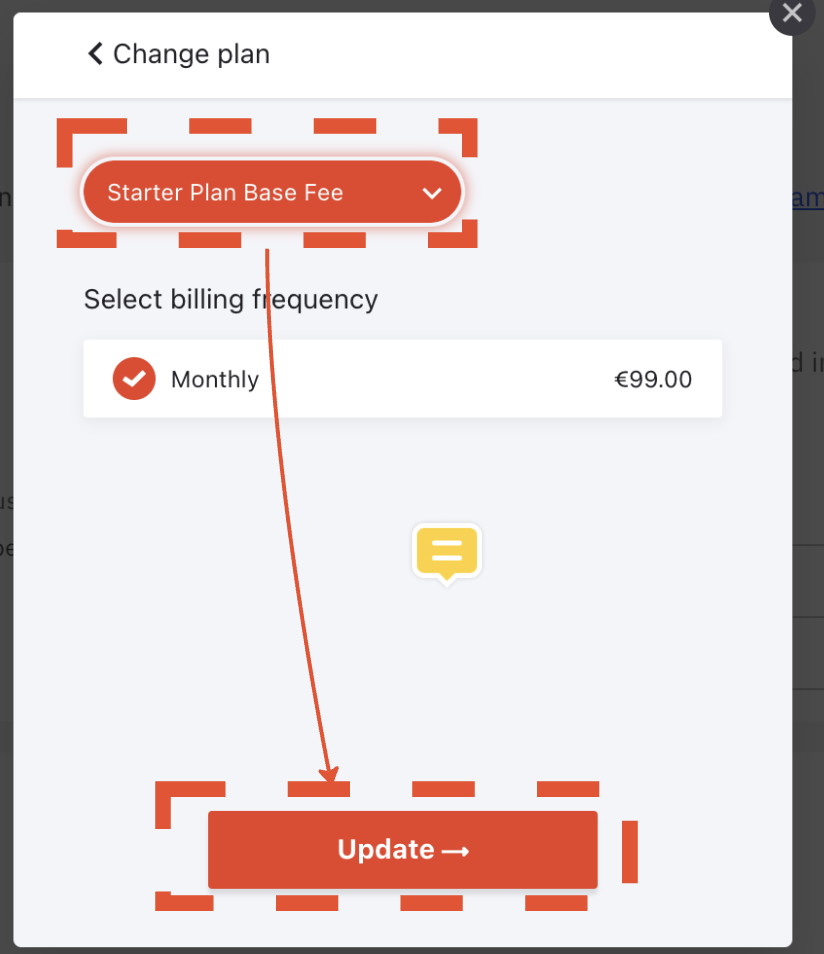
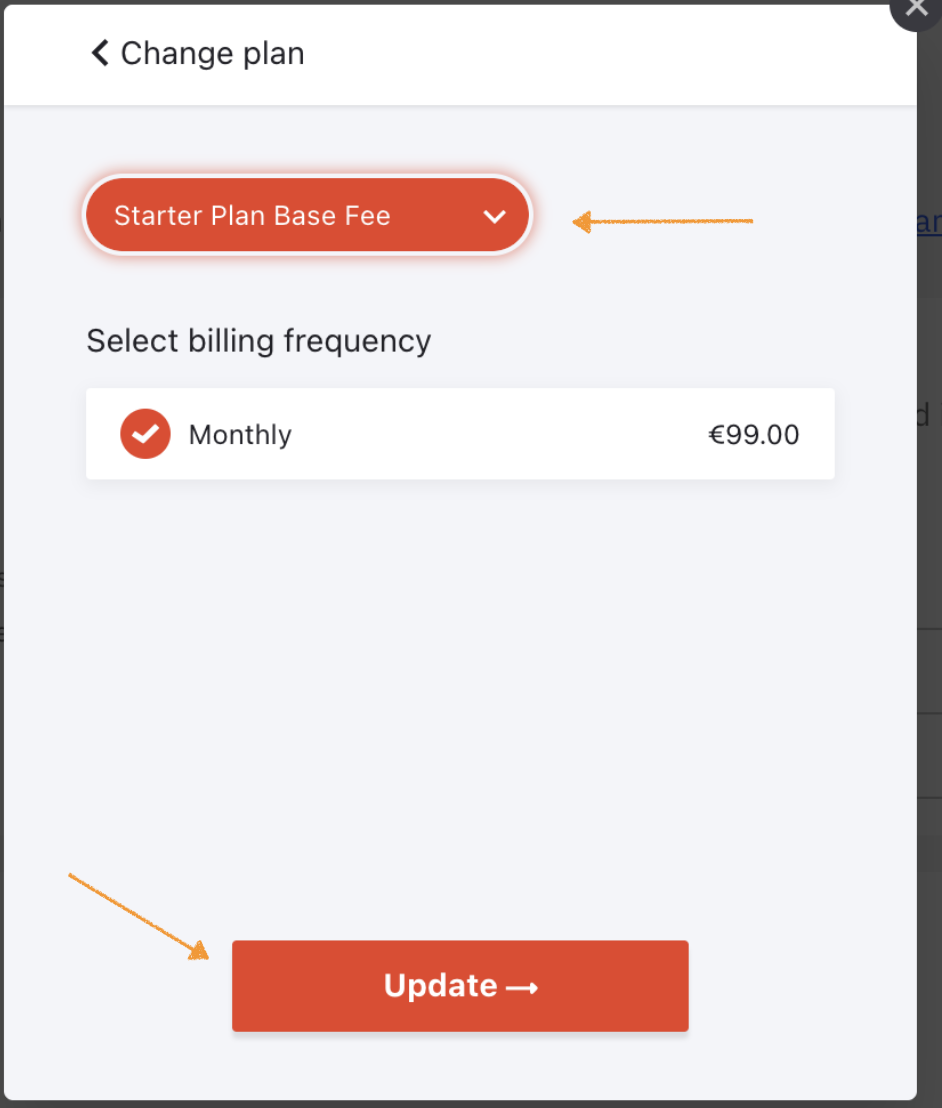
remove and replace screenshots

diff --git a/docs/components/console/manage-plan/migrate-from-prof-to-starter.md b/docs/components/console/manage-plan/migrate-from-prof-to-starter.md
@@ -8,37 +8,33 @@ description: "Want to migrate from Professional to Starter? Follow these steps."
 Here are a few important remarks to consider before completing the migration steps:
 
 - The migration is one way and cannot be reversed. Once you migrate to Starter, you cannot migrate back to Professional.
-- Since the two plans have different types of clusters included and fees for those, we recommend comparing the old Professional plan with the new Starter plan to understand your monthly costs before the migration.
+- Since the two plans have different types of clusters included and fees for those, we recommend comparing the [old Professional plan](https://camunda.com/blog/2023/05/camunda-professional-edition-accelerate-projects/) with the [new Starter plan](https://camunda.com/blog/2023/09/camunda-starter/) to [understand your monthly costs](https://camunda.com/pricing/starter-plan-price-calculator/) before the migration.
 - General users and development/production cluster reservations in the Professional plan are migrated “as is” to the Starter plan, which may result in overage costs (e.g. production clusters in Professional will be transferred to production clusters in the Starter plan). If you are not using your production cluster in the Professional plan, we recommend you delete it beforehand and create a new development cluster in the Starter plan afterward.
 - Once you have edited the plan below, the changes will take effect on the first day of your next subscription period.
 - If you have any questions, do not hesitate to contact us at starter-plan@camunda.com.
   :::
 
+### Migrate from Professional to Starter plan
+
 To migrate to the new Starter plan, take the following steps:
 
-1. From the Console, click Organization > Billing > Manage subscription.
+1. From the Console, click **Organization > Billing > Manage Subscription.**
 
-![console manage subscription](./img/console-manage-subscription.png)
+![console manage subscription](./img/cc-entrypoint.png)
 
 2. Click on your current plan.
 
-![console click current plan](./img/console-edit-subscription.png)
+![console click current plan](./img/console-retrieve-plan.png)
 
 3. Under the Subscription Details modal, click on **Edit Subscription**.
 
-![console edit subscription](./img/console-edit-subscription.png)
-
 4. Next to Professional Plan Base Fee, click on **Change**.
-
-![console change plan](./img/console-change-plan.png)
 
 5. When in the Change plan modal, select Starter Plan Base Fee from the dropdown and click **Update**.
 
 ![console switch and update plan](./img/console-switch-update-plan.png)
 
-6. After completing the update, you will receive an email confirming the date the change will take place.
-
-![email confirmation of email switch](./img/console-email-plan-switch.png)
+6. After completing the update, you will receive an email confirming the date when the change will take effect.
 
 ### Add coupon code to your subscription
 

diff --git a/versioned_docs/version-8.3/components/console/manage-plan/migrate-from-prof-to-starter.md b/versioned_docs/version-8.3/components/console/manage-plan/migrate-from-prof-to-starter.md
@@ -18,9 +18,9 @@ Here are a few important remarks to consider before completing the migration ste
 
 To migrate to the new Starter plan, take the following steps:
 
-1. From the Console, **click Organization > Billing > Manage Subscription.**
+1. From the Console, click **Organization > Billing > Manage Subscription.**
 
-![console manage subscription](./img/console-manage-subscription.png)
+![console manage subscription](./img/cc-entrypoint.png)
 
 2. Click on your current plan.
 
